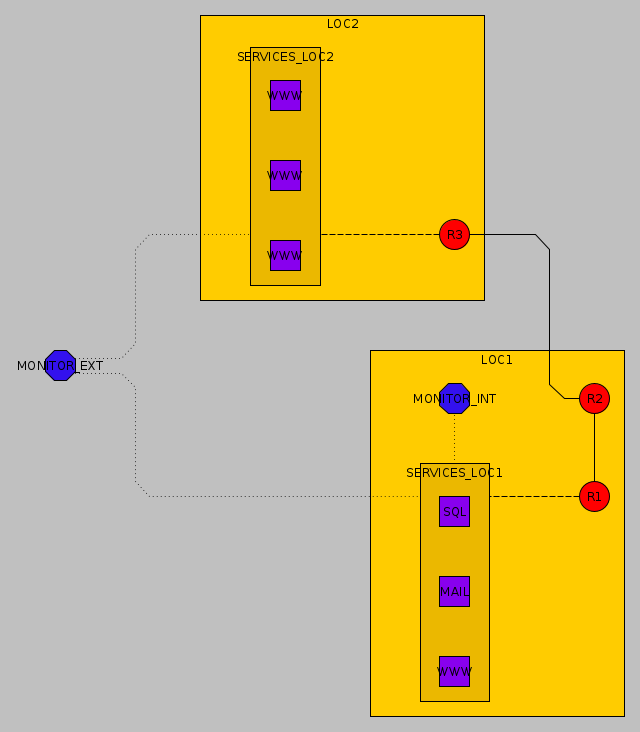
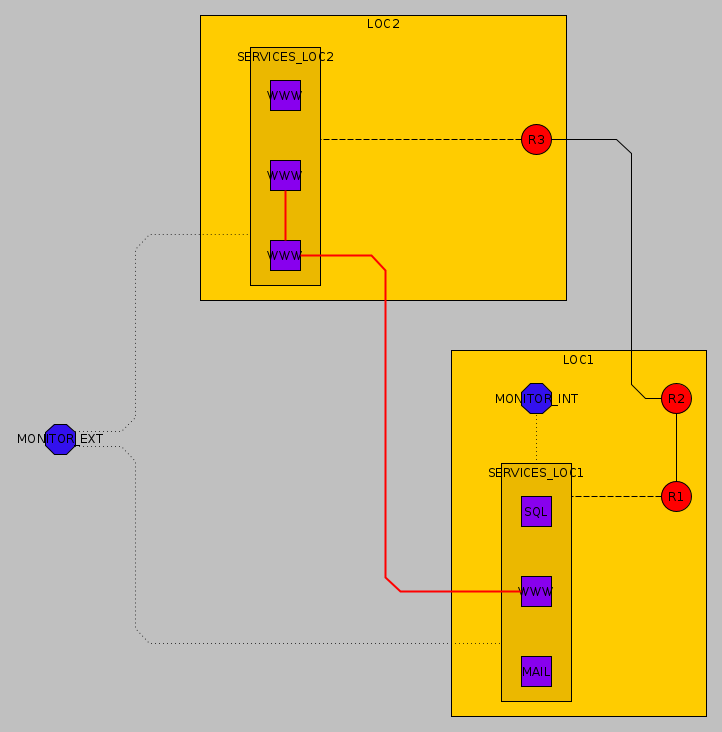
added 2 red www edges

diff --git a/network_2/network_2.py b/network_2/network_2.py
@@ -40,4 +40,7 @@ g.add_edge('MONITOR_EXT','SERVICES_LOC2', arrowhead="none", line_type="dotted")
 
 g.add_edge('MONITOR_INT','SERVICES_LOC1', arrowhead="none", line_type="dotted")
 
+g.add_edge('w2','w3', arrowhead="none", color="#FF0000", line_type="line", width="2.0")
+g.add_edge('w1','w2', arrowhead="none", color="#FF0000", line_type="line", width="2.0")
+
 g.write_graph('network2.graphml', pretty_print=True)
